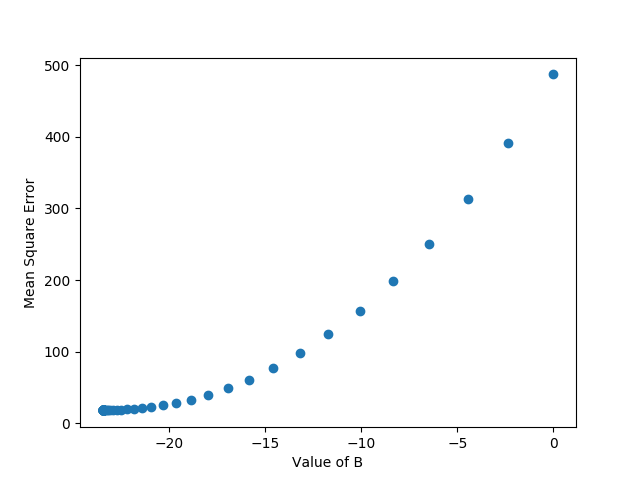
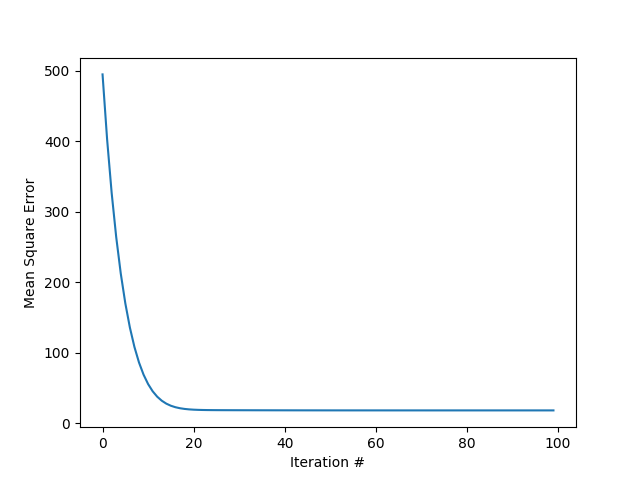
batch iteration

diff --git a/linear-regression.js b/linear-regression.js
@@ -6,7 +6,6 @@ class LinearRegression {
         this.features = this.processFeatures(features);// tf.tensor(features);
         this.labels = tf.tensor(labels);
         this.mseHistory = [];
-        this.bHistory = [];
        // this.features = tf.ones([this.features.shape[0], 1]).concat(this.features, 1)
         this.options = Object.assign({ learningRate: 0.1, iterations: 1000 }, options);
 
@@ -31,13 +30,13 @@ class LinearRegression {
     //     this.b = this.b - bSlope * this.options.learningRate;
     // }
 
-    gradientDescent() {
+    gradientDescent(features, labels) {
         // features * weights
-        const currentGuesses = this.features.matMul(this.weights);
+        const currentGuesses = features.matMul(this.weights);
         // (features * weights) -labels
-        const differences = currentGuesses.sub(this.labels);
+        const differences = currentGuesses.sub(labels);
 
-        const slopes = this.features.transpose()
+        const slopes = features.transpose()
             .matMul(differences)
             .div(this.features.shape[0])
 
@@ -46,9 +45,17 @@ class LinearRegression {
     }
 
     train() {
+        const batchQuantity = Math.floor(this.features.shape[0] / this.options.batchSize);
+
         for (let i = 0; i < this.options.iterations; i++) {
-            this.bHistory.push(this.weights.get(0,0) * -1)
-            this.gradientDescent();
+            for (let j = 0; j < batchQuantity; j++) {
+                const startIndex = j * this.options.batchSize;
+                const { batchSize } = this.options;
+                const featureSlice = this.features.slice([startIndex, 0], [batchSize, -1]);
+                const labelSlice =  this.labels.slice([startIndex, 0], [batchSize, -1])
+                this.gradientDescent(featureSlice, labelSlice);
+
+            }
             this.recordMSE();
             this.updateLearningRate();
         }

diff --git a/index.js b/index.js
@@ -16,7 +16,8 @@ console.log(features, labels)
 
 const regression = new LinearRegression(features, labels, {
     iterations: 100,
-    learningRate: 0.1
+    learningRate: 0.1,
+    batchSize: 10
 })
 
 regression.features.print(); 
@@ -25,9 +26,8 @@ regression.train();
 const r2 = regression.test(testFeatures, testLabels)
 
 plot({
-    x: regression.bHistory,
-    y: regression.mseHistory.reverse(),
-    xLabel: 'Value of B',
+    x: regression.mseHistory.reverse(),
+    xLabel: 'Iteration #',
     yLabel: 'Mean Square Error'
 })
 
